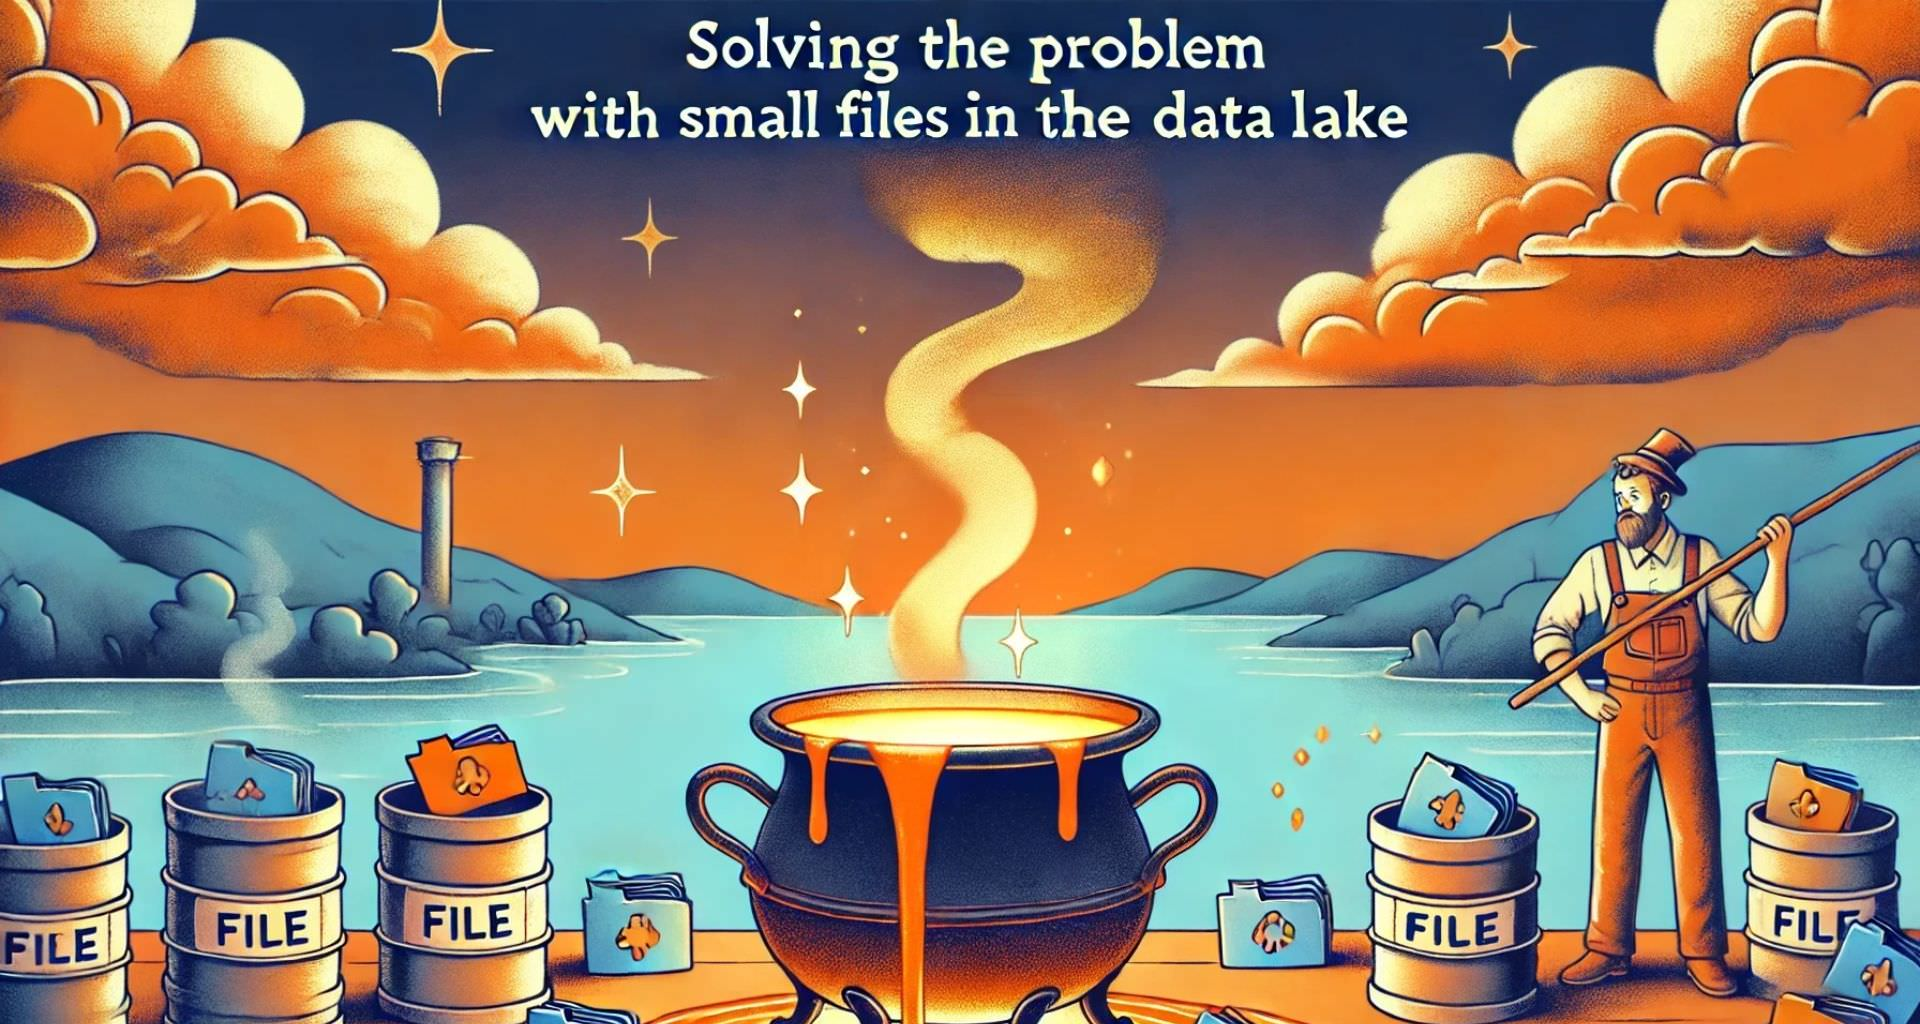
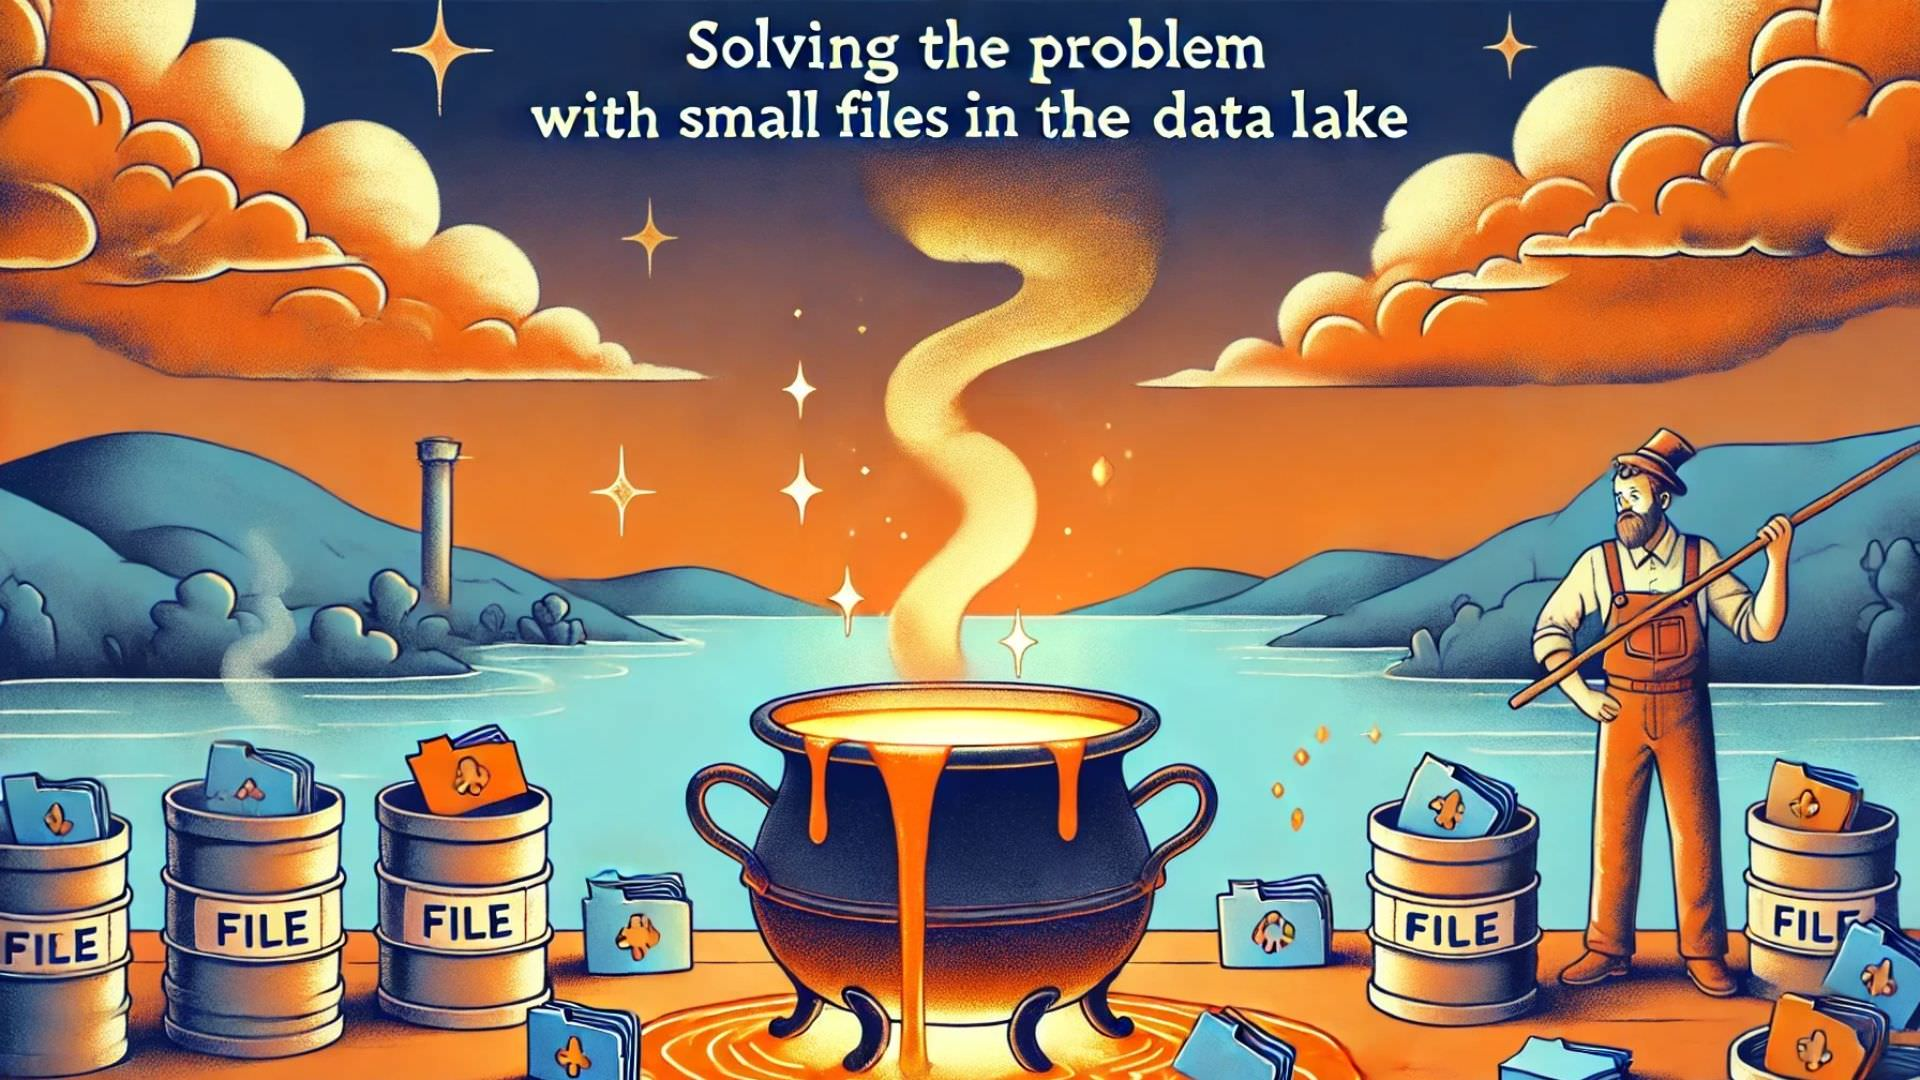
[NO-ISSUE] Improve blog images (#186)
* Add new pandas image

* Add databricks image

* Change google analytics and prefect images

* Change git, pypi and numba images

* Fix small files image ratio + change black image

* Change SQL Alchemy + Airflow images

* Reduce image sizes + increase version

* Remove the code that handled separate images for light and dark modes

diff --git a/src/content/config.ts b/src/content/config.ts
@@ -8,7 +8,6 @@ const blogCollection = defineCollection({
     description: z.string().optional(),
     date: z.date().optional(),
     image: z.string().optional(),
-    image_dark: z.string().optional(),
     author: z.string().default("Admin"),
     category: z.string().default("Others"),
     tags: z.array(z.string()).default(["Others"]),
